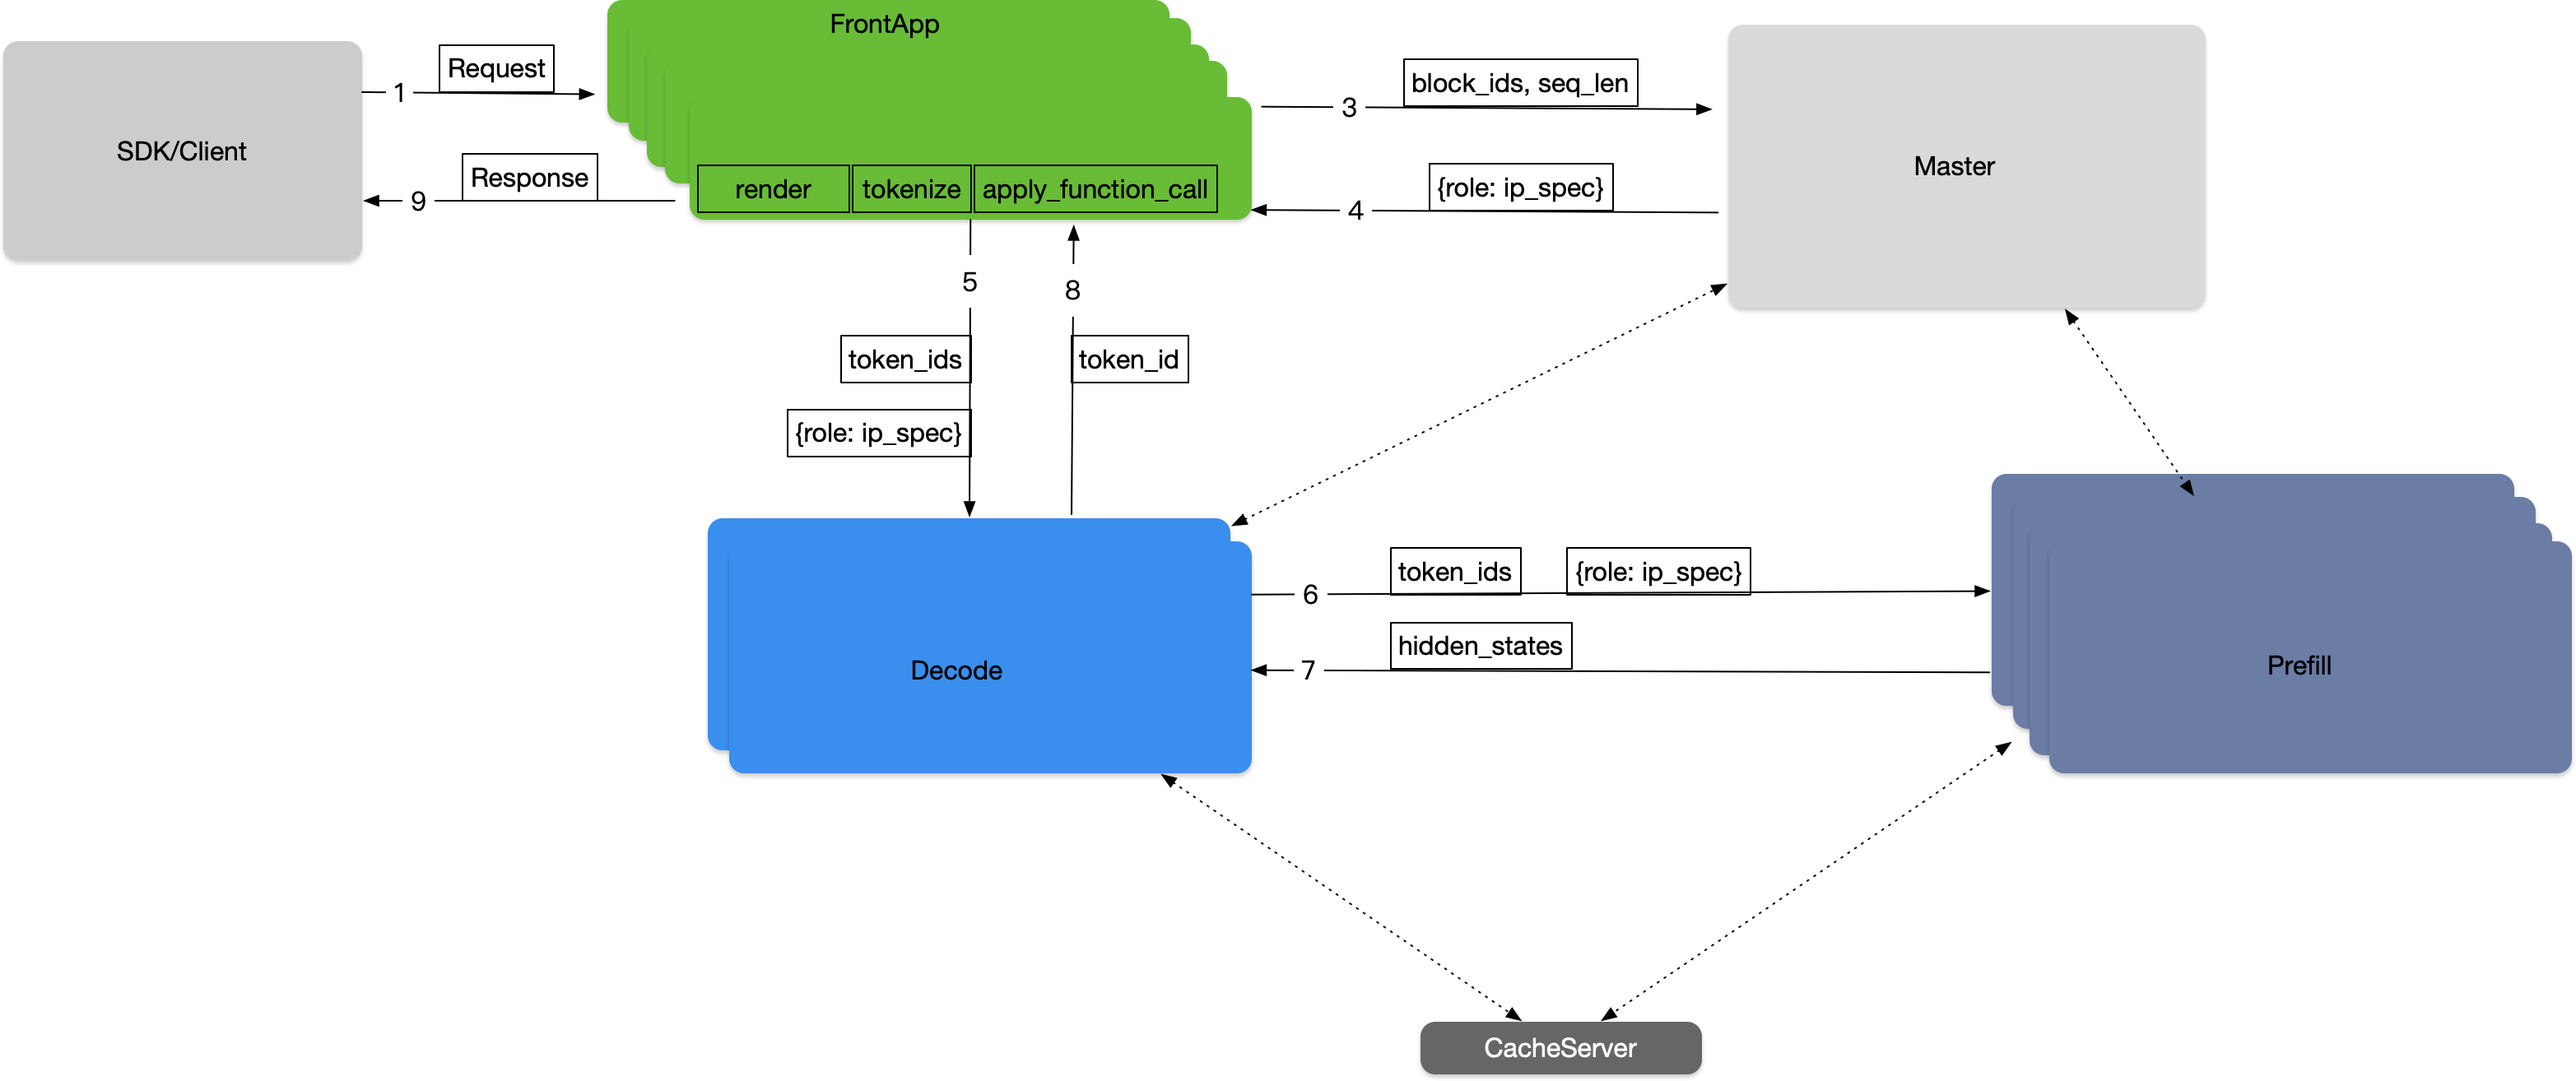
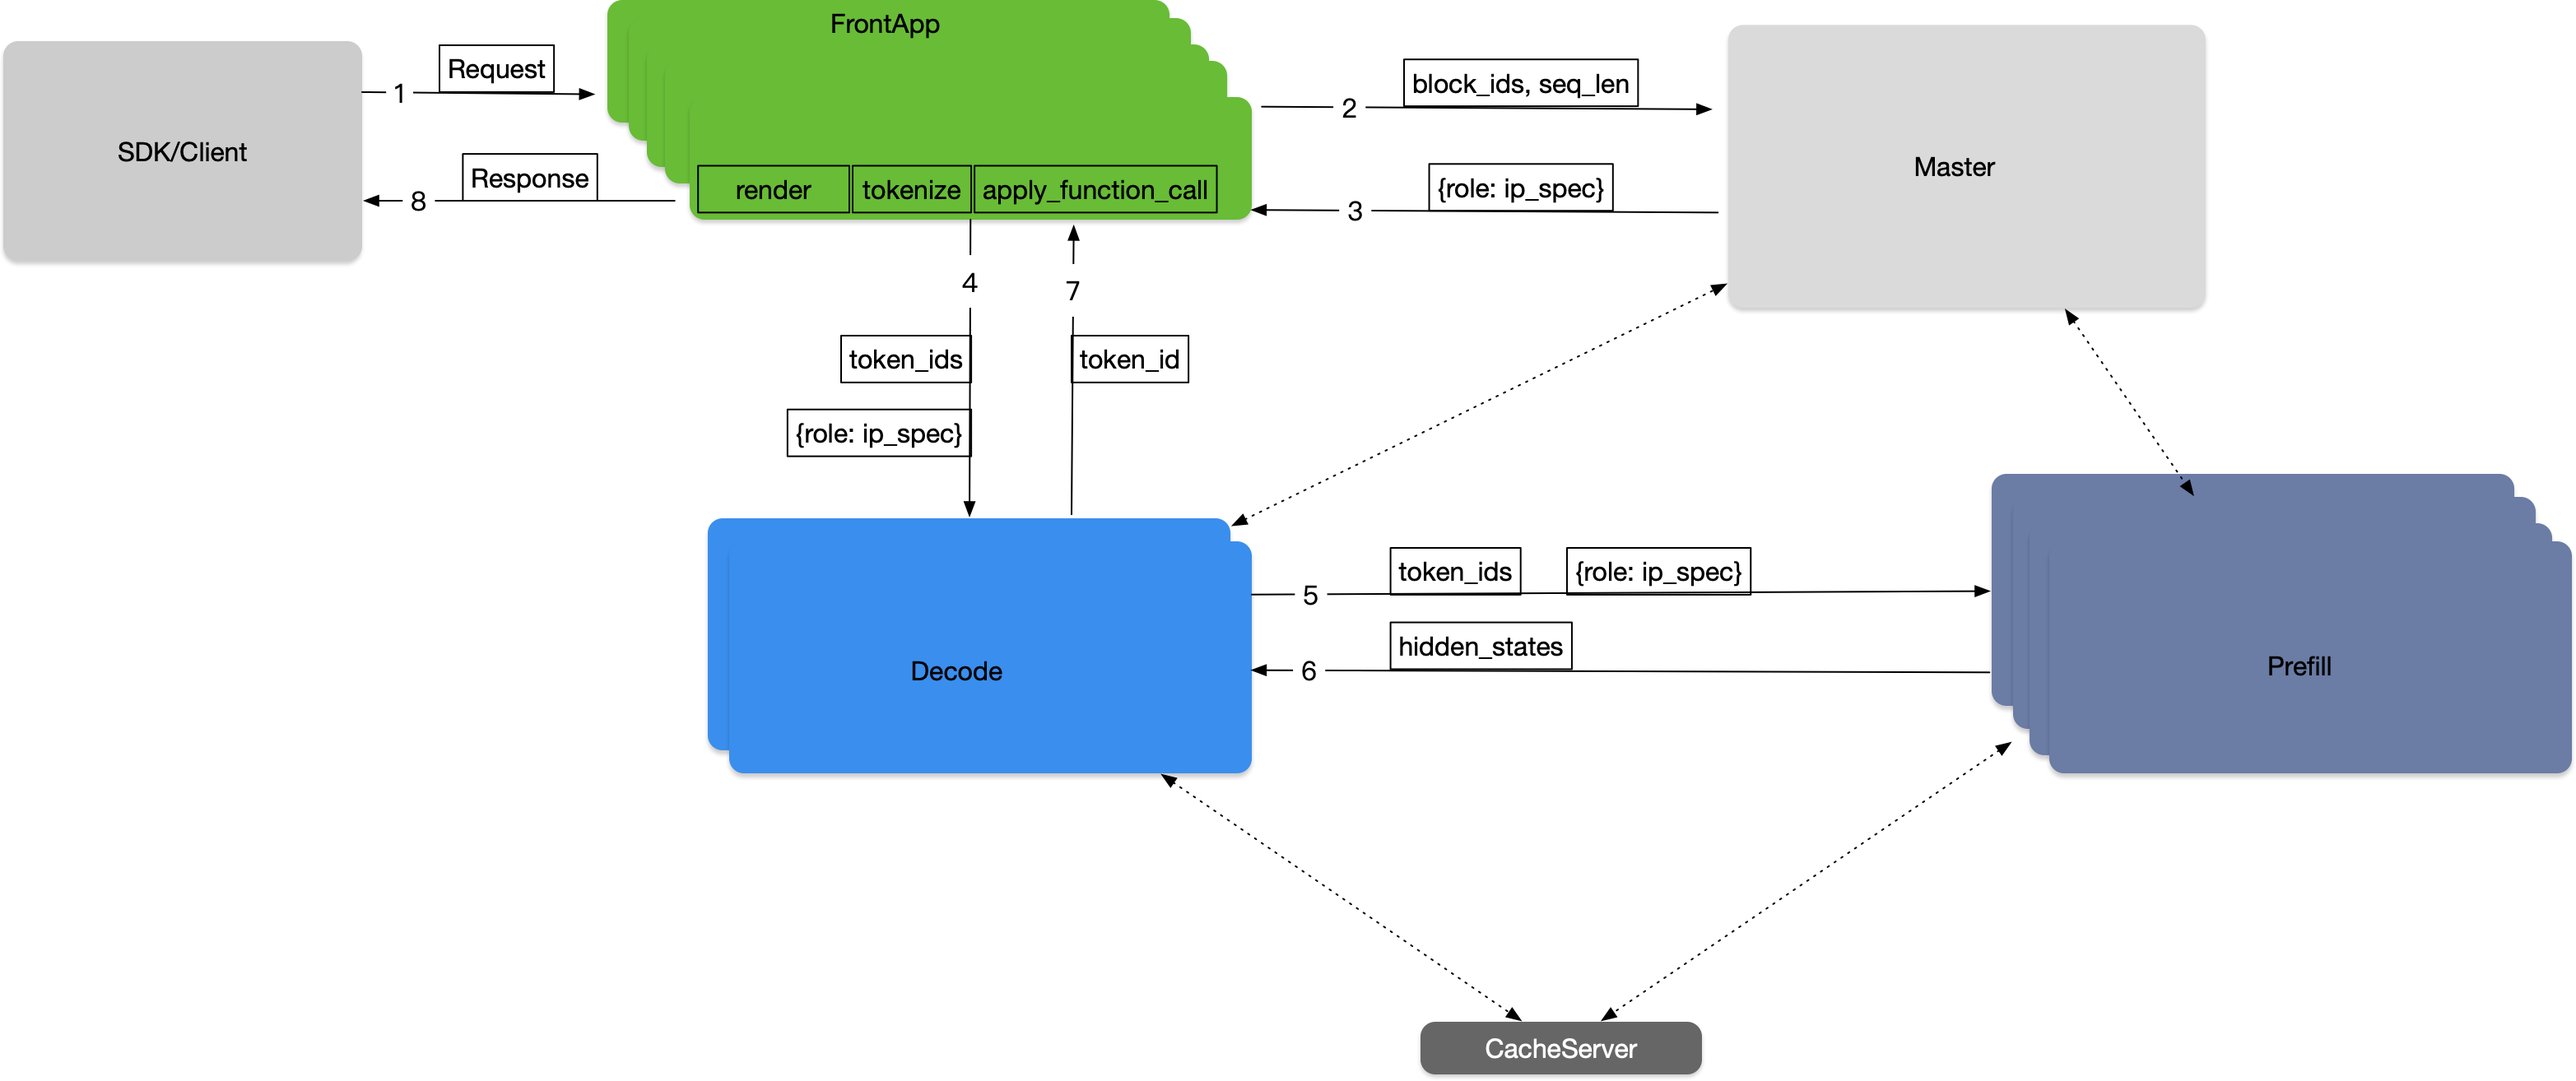
docs - update router.png && flexlb desensitization

diff --git a/docs/backend/flexlb.md b/docs/backend/flexlb.md
@@ -66,8 +66,114 @@ To use the FlexLB Master role in your RTP-LLM deployment:
 
 The Master role automatically handles load distribution, prefix-aware routing, and failover scenarios to optimize resource utilization and reduce request latency.
 
+## Startup Commands
+
+### 1. Build FlexLB
+
+Navigate to the FlexLB module directory from the project root:
 
 ```bash
+cd rtp_llm/flexlb
+```
 
+#### Run Unit Tests
 
+```bash
+mvn -B test \
+  -Dmaven.test.failure.ignore=true \
+  -Derror-prone.skip=true \
+  -Dautoconfig.skip=true \
+  -T 1C
+```
+
+#### Build Package
+
+```bash
+mvn clean package -DskipTests -T 1C
+```
+
+### 2. Docker Image Build
+
+#### Prepare Docker Build Context
+
+After build completion, copy the generated ai-whale.tgz to the Docker build context directory:
+
+```bash
+# Check build artifacts
+ls -la flexlb-api/target/
+
+# Copy to Docker build context
+cp flexlb-api/target/ai-whale.tgz APP-META/docker-config/ai-whale.tgz
+```
+
+#### Build Docker Images
+
+Base image build:
+
+```bash
+docker build ./ -f rtp_llm/flexlb/APP-META/docker-config/Dockerfile_base \
+  -t xx_docs.com/rtp_llm_flexlb_base
+```
+
+Production environment image build:
+
+```bash
+docker build ./ -f rtp_llm/flexlb/APP-META/docker-config/Dockerfile_production \
+  -t xx_docs.com/flexlb:latest
+```
+
+### 3. Run FlexLB
+
+Start the FlexLB service using the built Docker image:
+
+```bash
+docker run -d \
+  --name flexlb-master \
+  -p 8080:8080 \
+  xx_docs.com/flexlb:latest
+```
+
+### 4. Complete Build Script
+
+The following is a complete build and deployment script example:
+
+```bash
+#!/bin/bash
+
+echo "=== FlexLB Build and Deploy Script ==="
+
+# Navigate to FlexLB directory
+cd rtp_llm/flexlb
+
+echo "=== Step 1: Running Unit Tests ==="
+mvn -B test \
+  -Dmaven.test.failure.ignore=true \
+  -Derror-prone.
+  s=true \
+  -Dautoconfig.skip=true \
+  -T 1C
+
+echo "=== Step 2: Building Package ==="
+mvn clean package -DskipTests -T 1C
+
+echo "=== Step 3: Preparing Docker Build Context ==="
+if [ -f flexlb-api/target/ai-whale.tgz ]; then
+  echo "Copying ai-whale.tgz to Docker build context"
+  cp flexlb-api/target/ai-whale.tgz APP-META/docker-config/ai-whale.tgz
+  echo "Successfully copied ai-whale.tgz"
+else
+  echo "Error: ai-whale.tgz file not found"
+  exit 1
+fi
+
+echo "=== Step 4: Building Docker Images ==="
+# Build base image
+docker build ./ -f APP-META/docker-config/Dockerfile_base \
+  -t xx_docs.com/rtp_llm_flexlb_base
+
+# Build production image
+docker build ./ -f APP-META/docker-config/Dockerfile_production \
+  -t xx_docs.com/flexlb:latest
+
+echo "=== FlexLB Build Complete ==="
 ```
